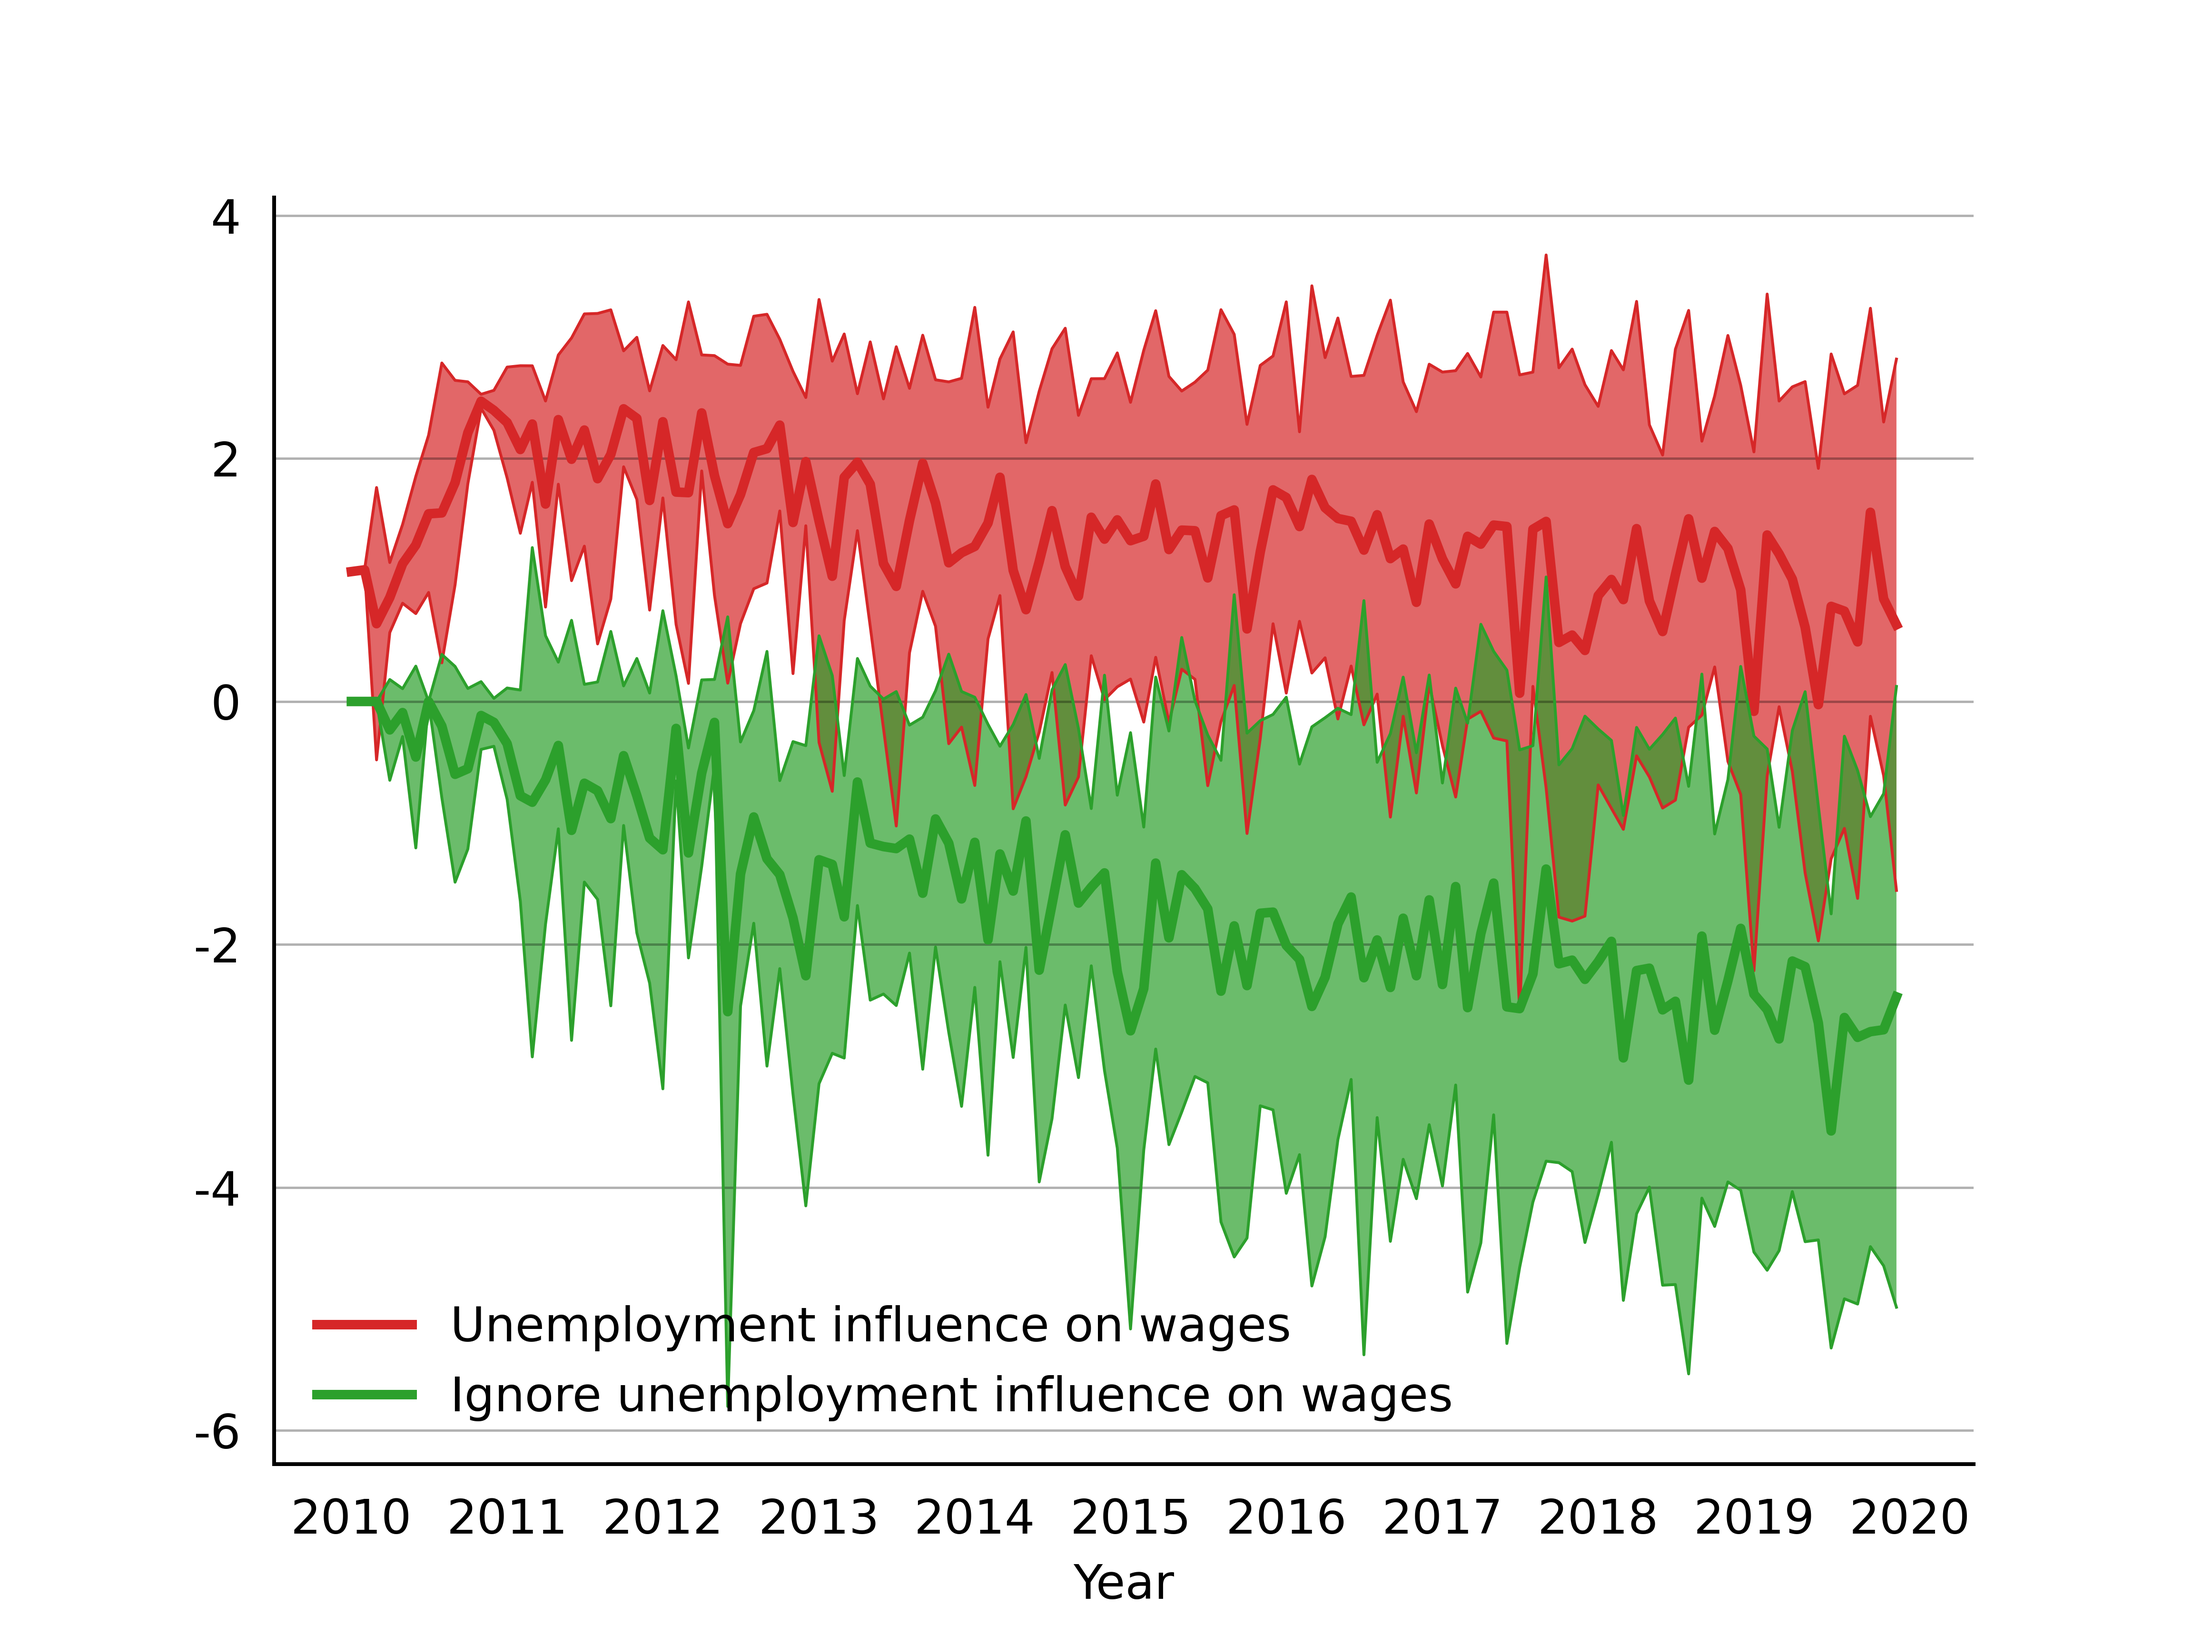
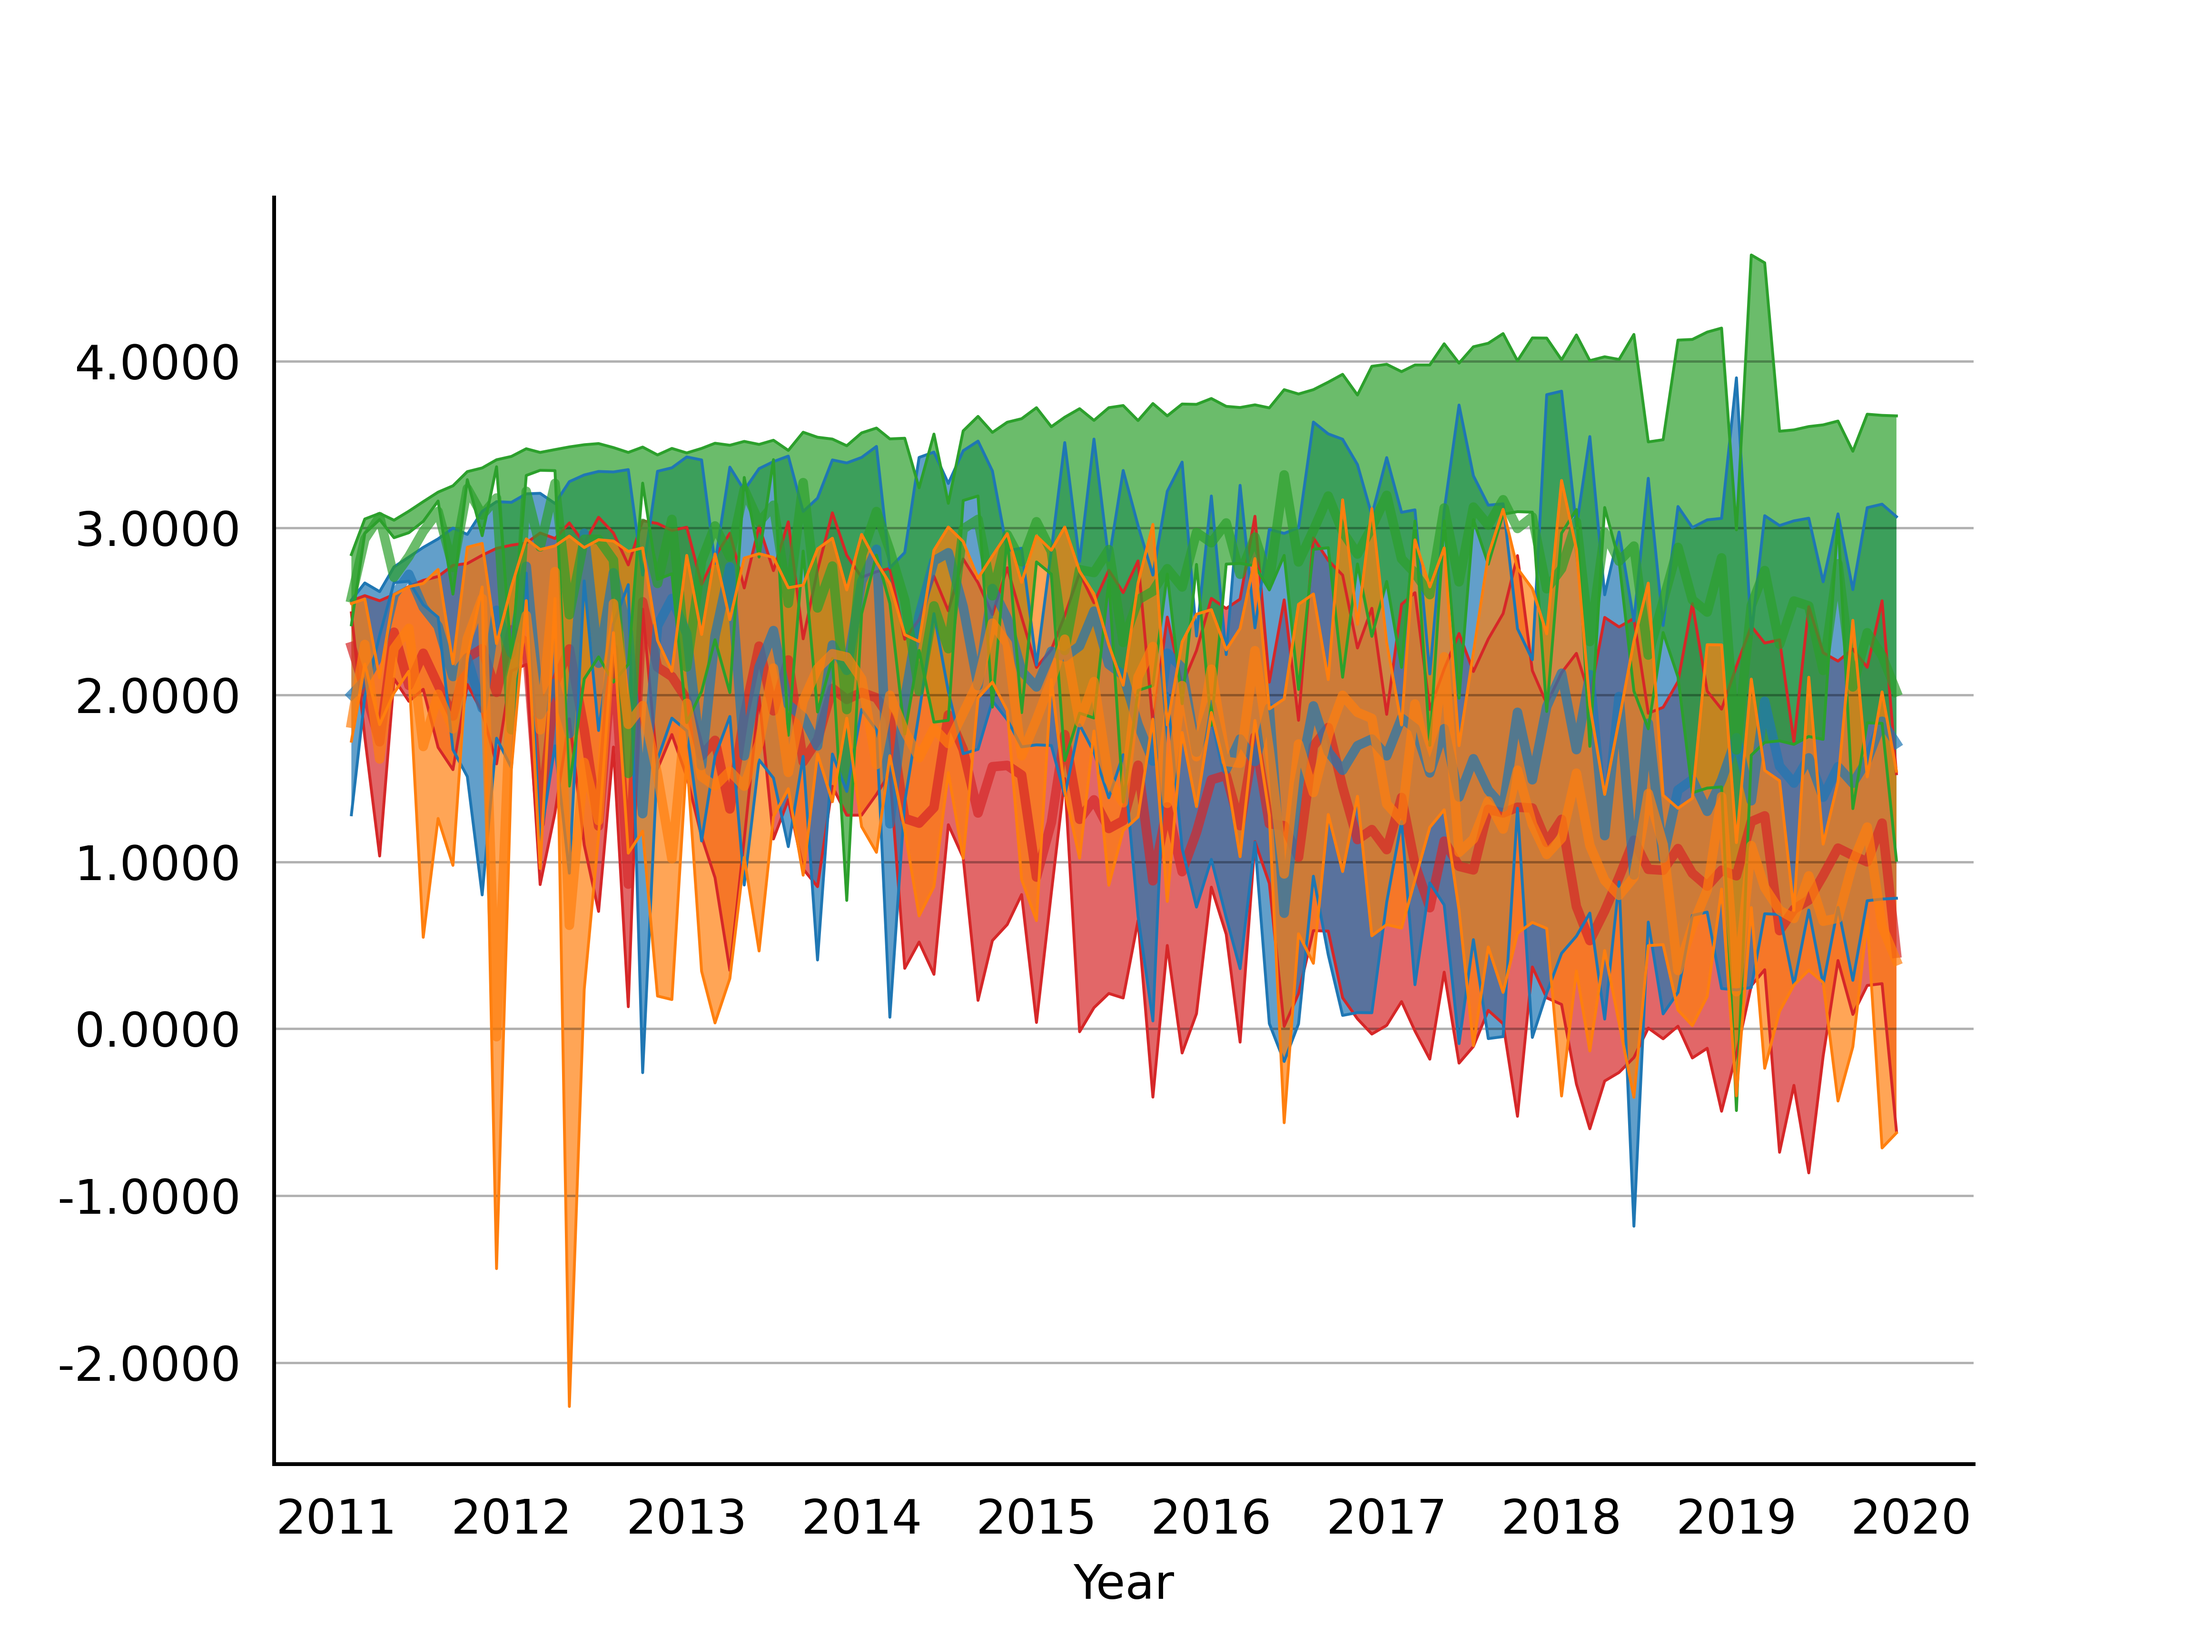
new figures

diff --git a/post_analysis/simple_plot.py b/post_analysis/simple_plot.py
@@ -25,25 +25,28 @@ def prepare_data(filepaths, labels):
 def plot(database, lbls, path, dpi=720, ft='png'):
     colors = {'buy': 'tab:red', 'no_policy': 'tab:orange', 'rent': 'tab:blue', 'wage': 'tab:green'}
     fmts = {'gdp_index': '{:.0f}',
-            'families_median_wealth': '{:.2f}',
             'gini_index': '{:.3f}',
-            'average_utility': '{:.2f}'}
+            'average_qli': '{:.3f}',
+            'house_price': '{:.0f}',
+            'pct_zero_consumption': '{:.3f}',
+            'rent_default': '{:.3f}'}
 
     for lb in lbls:
-        if lb not in ['gdp_index', 'gini_index']:
+        if lb in ['gdp_index', 'gini_index', 'average_qli', 'house_price', 'rent_default',
+                  'pct_zero_consumption']:
             if lb not in ['month']:
                 fig, ax = plt.subplots(dpi=dpi)
                 for i, data in enumerate(database):
-                    ax.plot(database[data]['avg']['month'], database[data]['avg'][lb], linewidth=2,
-                            color=colors[data], label=data, alpha=.7)
-                    ax.plot(database[data]['upper_table']['month'], database[data]['upper_table'][lb], linewidth=.6,
+                    ax.plot(database[data]['avg']['month'], database[data]['avg'][lb], linewidth=.2,
+                            color=colors[data], label=data, alpha=.6)
+                    ax.plot(database[data]['upper_table']['month'], database[data]['upper_table'][lb], linewidth=.5,
                             color=colors[data])
-                    ax.plot(database[data]['upper_table']['month'], database[data]['lower_table'][lb], linewidth=.6,
+                    ax.plot(database[data]['upper_table']['month'], database[data]['lower_table'][lb], linewidth=.5,
                             color=colors[data])
                     ax.fill_between(pd.to_datetime(database[data]['avg']['month']),
                                     database[data]['upper_table'][lb],
                                     database[data]['lower_table'][lb],
-                                    facecolor=colors[data], alpha=.7)
+                                    facecolor=colors[data], alpha=.5)
                 ax.spines['top'].set_visible(False)
                 ax.spines['bottom'].set_visible(True)
                 ax.spines['right'].set_visible(False)
